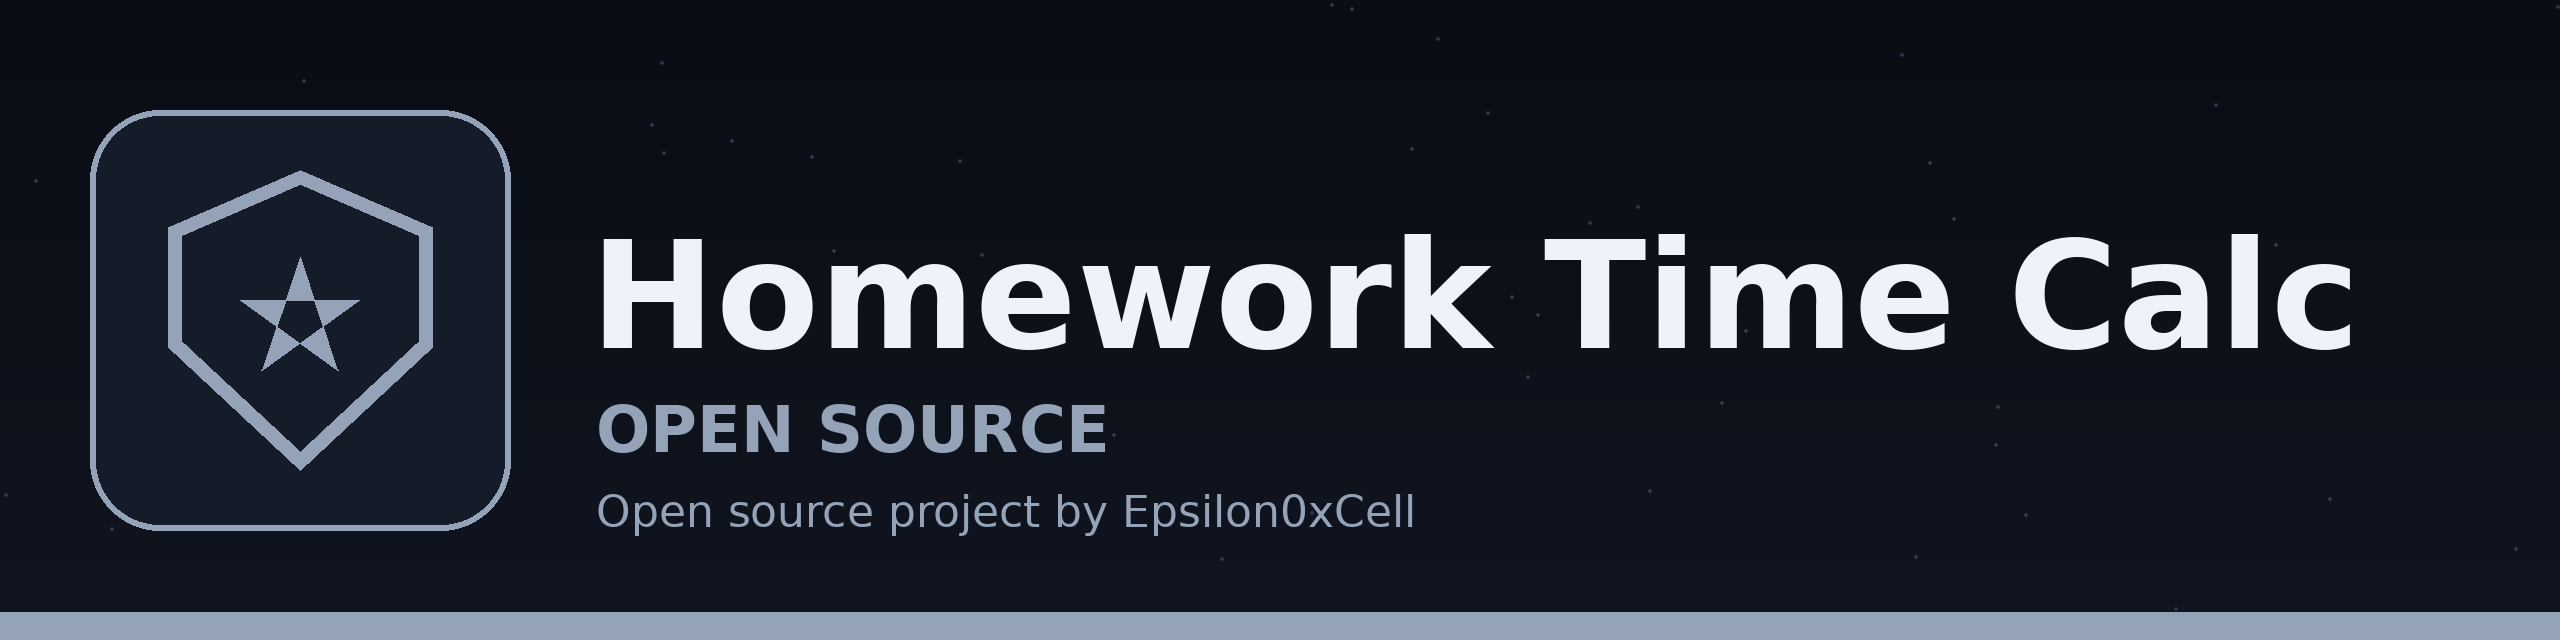
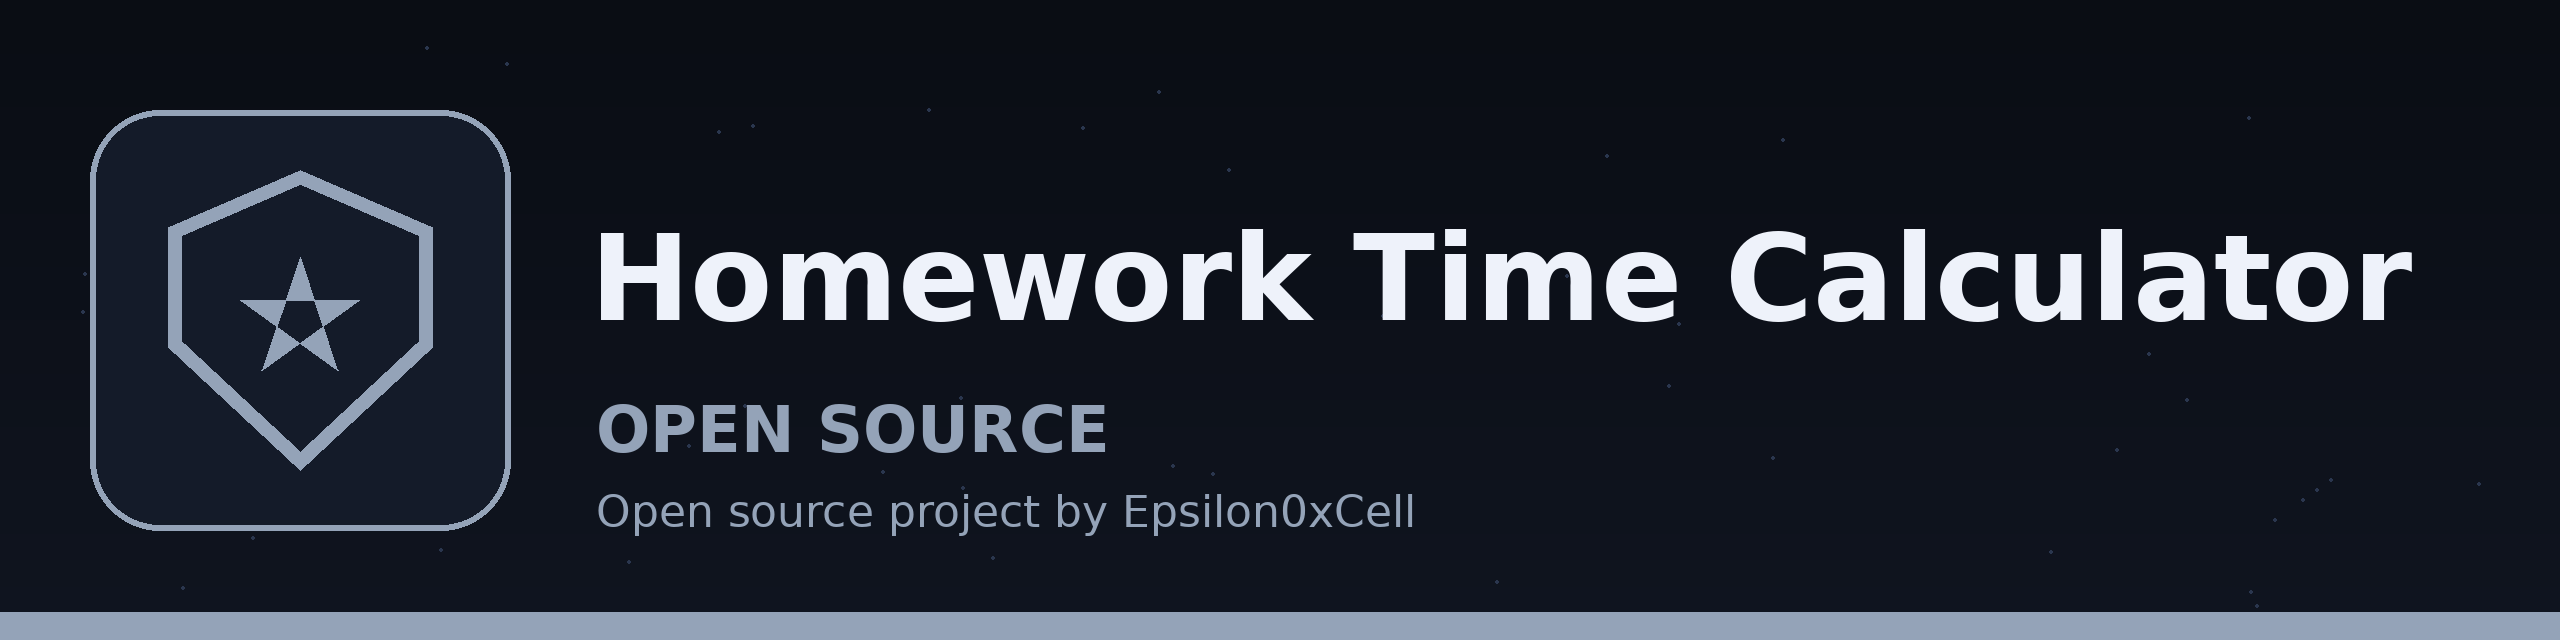
Update name to Homework-Time-Calculator: README title and branding

Changed region(s): [[0.2188, 0.3438, 0.9375, 0.5625]]

diff --git a/README.md b/README.md
@@ -1,6 +1,6 @@
 ![homework-time-calc banner](banner.png)
 
-# homework-time-calc
+# Homework-Time-Calculator
 
 Homework time calculator. A small interactive Python script: you list your
 homework assignments, say how many minutes each one will take, and it prints
